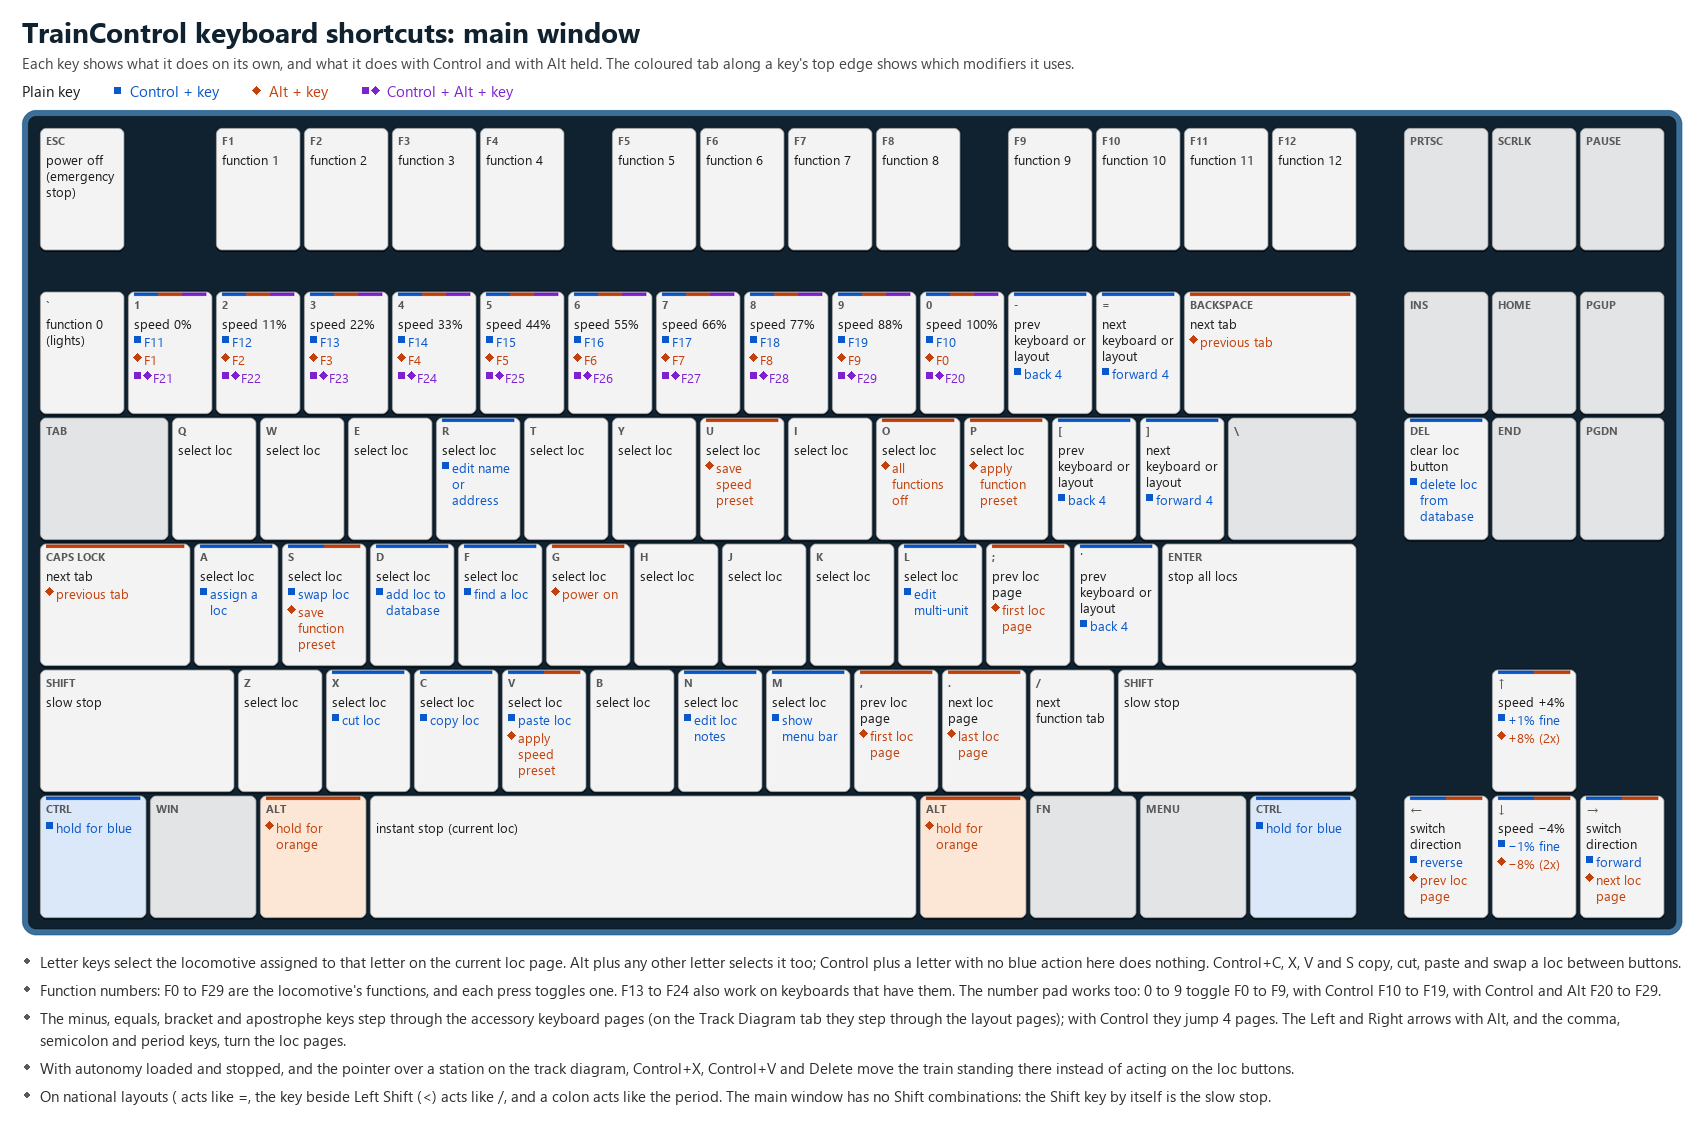
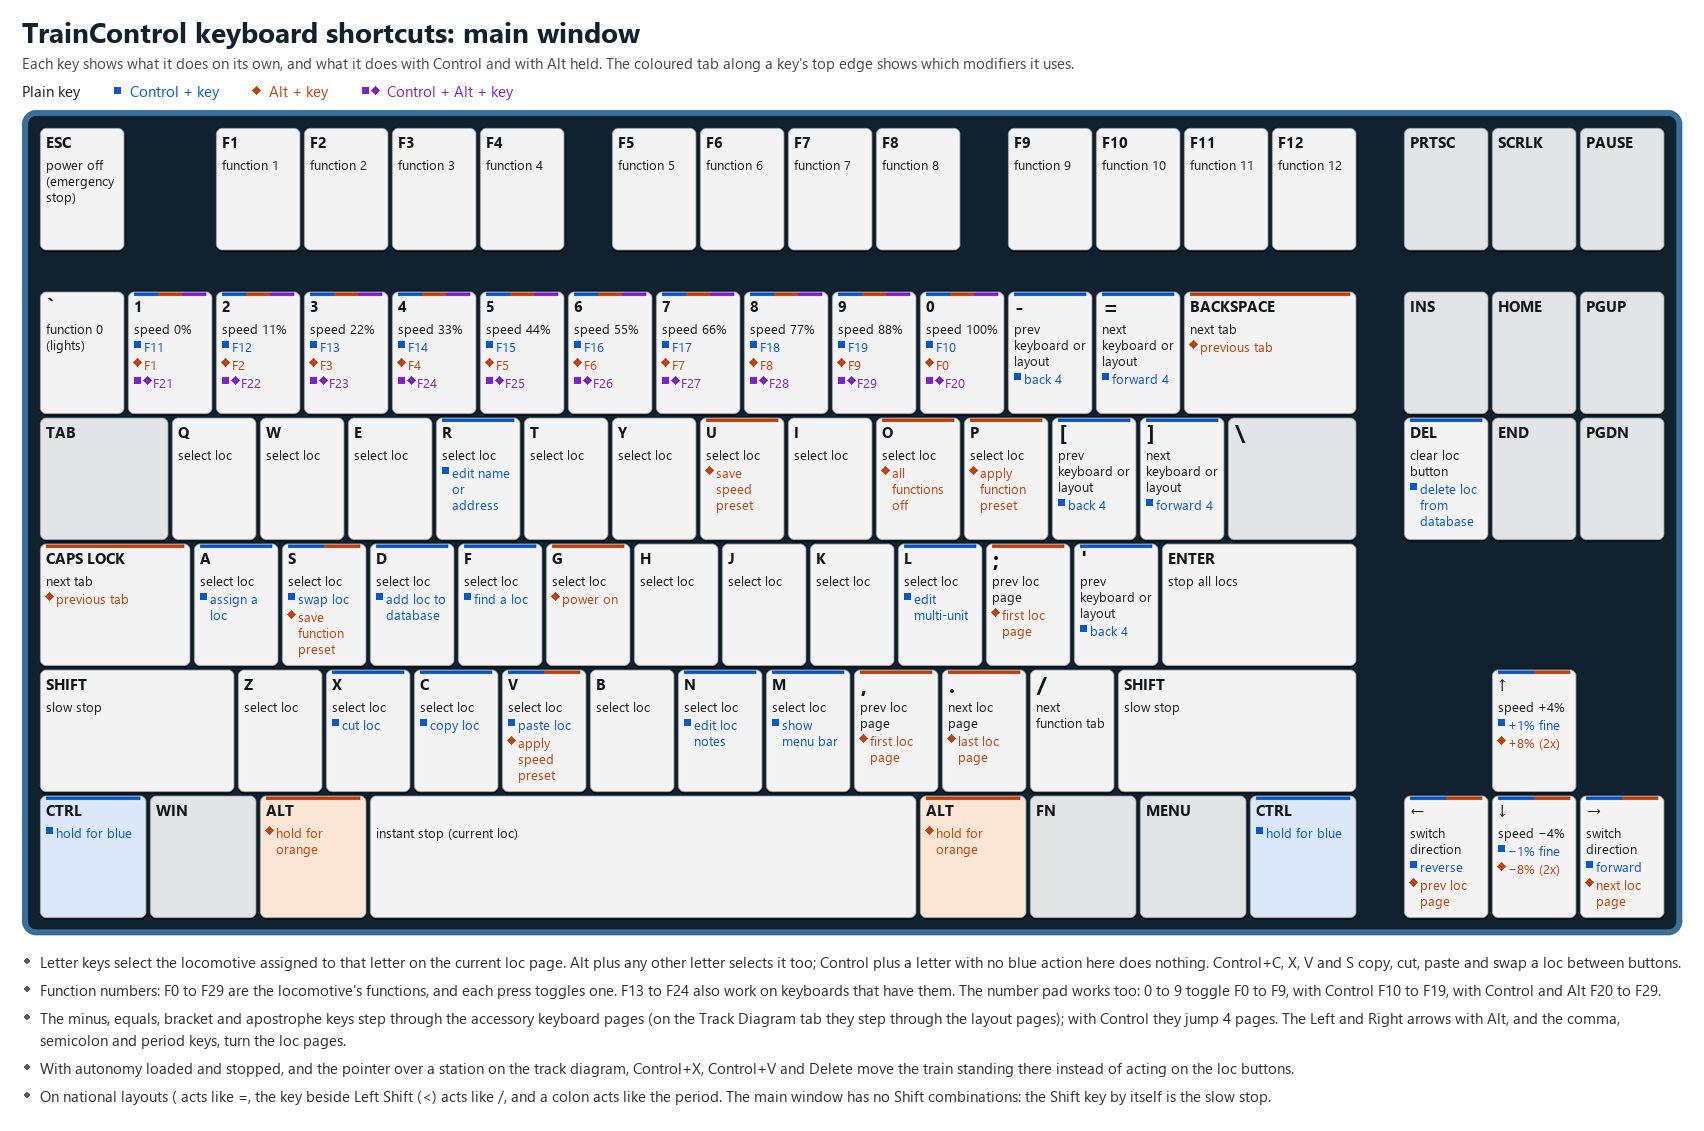
Keyboard diagrams: bolder, larger key names; keyboard list and shortcuts table corrected

diff --git a/Readme.md b/Readme.md
@@ -181,11 +181,11 @@ TrainControl's key mappings are designed to allow you to send any command nearly
 
 * Primary controls
     * Selecting and speed
-        * A-Z letter keys (select a locomotive)
-        * Up/down arrow (speed up/slow down) (hold Alt to double the increment or Control to reduce)
+        * A-Z letter keys (select a locomotive; Alt+letter does the same)
+        * Up/down arrow (speed up/slow down by 4%) (hold Alt to double the increment or Control to reduce it to 1%)
         * 1 through 0 (set locomotive speed, 1 is stopped and 0 is max)
     * Direction
-        * Left/right arrow (change direction)
+        * Left/right arrow (switch direction)
         * Control+Left/right arrow (set direction as reverse / set direction as forward)
     * Functions
         * Numpad 0/backquote/Alt+0 (toggle lights/F0)
@@ -226,7 +226,7 @@ TrainControl's key mappings are designed to allow you to send any command nearly
 * UI shortcuts
     * Control+M (show menu bar)
     * Backspace/Alt+backspace, CapsLock/Alt+CapsLock (cycle through tabs)
-    * Plus/minus, \[/\], '/( (cycle through keyboards and layout pages, Control+plus/minus jumps 4 keyboards)
+    * Minus/plus, \[/\], '/( (previous/next accessory keyboard, or previous/next layout page on the Track Diagram tab; Control with these jumps 4 accessory keyboards)
     * Slash/question mark, < (cycle through function tabs on the locomotive panel)
 * Track diagram editor
     * Editing tiles
@@ -244,6 +244,7 @@ TrainControl's key mappings are designed to allow you to send any command nearly
         * Control+Y (redo)
     * Picking squares
         * Shift+click (pick several squares at once)
+        * Shift+drag (pick a box of squares)
         * Control+M (select by dragging a box)
         * Escape (let go of whatever is held; with nothing held, close the editor)
     * What is shown
@@ -251,7 +252,7 @@ TrainControl's key mappings are designed to allow you to send any command nearly
         * Control+D (show address labels)
         * Control+K (show the grid)
     * Pages and size
-        * Plus/minus (next / previous page)
+        * Plus/minus, also on the number pad (next / previous page)
         * Control+I (increase diagram by 1 row and 1 column)
 * Autonomy editor
     * A square's settings
@@ -266,7 +267,7 @@ TrainControl's key mappings are designed to allow you to send any command nearly
         * Control+D (show address labels)
         * Control+K (show the grid)
     * Moving around
-        * Plus/minus (next / previous page)
+        * Plus/minus, also on the number pad (next / previous page)
         * Shift+click (pick several squares at once)
         * Escape (put down an armed tool; with nothing armed, close the editor)
 * Track diagram (with autonomy loaded and stopped, pointer over a station)

diff --git a/Automation.md b/Automation.md
@@ -263,7 +263,7 @@ These act on the square under the pointer.
 | Control+L | Step through the Station Labels choices |
 | Control+D | Show or hide Addresses |
 | Control+K | Show or hide the Grid |
-| + and - | Next and previous page |
+| + and - | Next and previous page (the number pad ones too) |
 | Shift+click | Pick a square, or let it go |
 | Escape | Put down an armed tool; with nothing armed, the same as Cancel |
 
